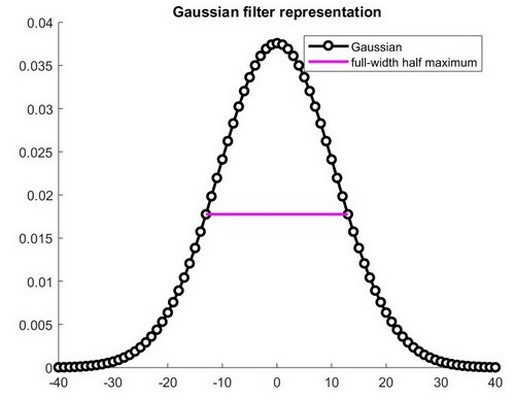
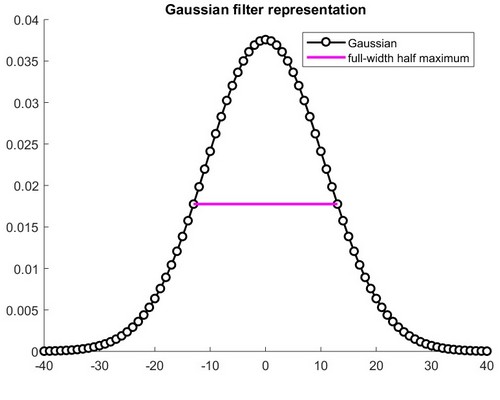
READM + functions: updated graphics and figures

Changed region(s): [[0.0, 0.0, 0.99, 0.99]]

diff --git a/Matlab/denoising/gaussian_filter.m b/Matlab/denoising/gaussian_filter.m
@@ -53,8 +53,6 @@ empFWHM = gtime(pstPeakHalf) - gtime(prePeakHalf);
 
 %   normalize Gaussian to unit energy
 gauswin = gauswin / sum(gauswin);
-title([ 'Gaussian kernel with requeted FWHM ' num2str(fwhm) ' ms (' num2str(empFWHM) ' ms achieved)' ])
-xlabel('Time (ms)'), ylabel('Gain')
 
 % Initialize filtered signal
 if mode == 0
@@ -77,9 +75,9 @@ if plotting == 1
     fig = figure;
     fig.Color = 'w';    % set background color to white
     clf, hold on
-    plot(gtime, gauswin, 'ko-', 'markerfacecolor', 'w', 'linew', 2)
+    plot(gtime, gauswin, 'ko-', 'markerfacecolor', 'w', 'linew', 1.5)
     hold on
-    plot(gtime([prePeakHalf pstPeakHalf]), gauswin([prePeakHalf pstPeakHalf]), 'm', 'linew', 2)
+    plot(gtime([prePeakHalf pstPeakHalf]), gauswin([prePeakHalf pstPeakHalf]), 'm', 'linew', 1.5)
     legend({'Gaussian';'full-width half maximum'})
     title('Gaussian filter representation')
 
@@ -87,7 +85,7 @@ if plotting == 1
     fig2.Color = 'w';
     clf, hold on
     plot(time, signal)
-    plot(time, filtered_signal, 'linew', 2)
+    plot(time, filtered_signal, 'linew', 1.5)
 
     xlabel('Time [sec]'), ylabel('Amplitude')
     legend({'Original signal';'Gaussian-filtered'})

diff --git a/Matlab/denoising/tkeo_zscore.m b/Matlab/denoising/tkeo_zscore.m
@@ -45,15 +45,15 @@ if plotting == 1
     clf
     % plot original and filtered time series (normalized to max-1)
     subplot(211), hold on
-    plot(time, signal./max(signal), 'linew', 2)
-    plot(time, filtered_signal./max(filtered_signal), 'linew', 2)
+    plot(time, signal./max(signal), 'linew', 1.5)
+    plot(time, filtered_signal./max(filtered_signal), 'linew', 1.5)
     xlabel('Time [ms]'), ylabel('Amplitude or energy')
     legend({'signal'; 'filtered signal (TKEO)'})
 
     % plot zscores
     subplot(212), hold on
-    plot(time, signal_zscore, 'linew', 2)
-    plot(time, filtered_signal_zscore, 'linew', 2)
+    plot(time, signal_zscore, 'linew', 1.5)
+    plot(time, filtered_signal_zscore, 'linew', 1.5)
     xlabel('Time [ms]'), ylabel('z-score')
     legend({'signal'; 'filtered signal (TKEO)'})
 end

diff --git a/Matlab/denoising/moving_average.m b/Matlab/denoising/moving_average.m
@@ -56,12 +56,12 @@ if plotting == 1
     fig.Color = 'w';    % set background color to white
     clf, hold on
     plot(time, signal)
-    plot(time, filtered_signal, 'linew',2)
+    plot(time, filtered_signal, 'linew', 1.5)
 
     % draw a patch to indicate the window size
     tidx = dsearchn(time', 1);
     ylim = get(gca, 'ylim');
-    patch(time([tidx-window tidx-window tidx+window tidx+window]), ylim([1 2 2 1]), 'k', 'facealpha', .25, 'linestyle','none')
+    patch(time([tidx-window tidx-window tidx+window tidx+window]), ylim([1 2 2 1]), 'k', 'facealpha', .25, 'linestyle', 'none')
     plot(time([tidx tidx]), ylim,'k--')
 
     xlabel('Time [sec]'), ylabel('Amplitude')

diff --git a/Matlab/denoising/median_filter.m b/Matlab/denoising/median_filter.m
@@ -52,7 +52,8 @@ if plotting == 1
     fig = figure;
     fig.Color = 'w';    % set background color to white
     clf, hold on
-    plot(1:length(signal), signal, 1:length(signal), filtered_signal, 'linew', 2)
+    plot(1:length(signal), signal)
+    plot(1:length(signal), filtered_signal, 'linew', 1.5)
     xlabel('Time [sec]'), ylabel('Amplitude')
     legend({'Original signal';'Median-filtered'})
     title('Median spike denoising filter')

diff --git a/Matlab/denoising/examples/median_spikes_example.m b/Matlab/denoising/examples/median_spikes_example.m
@@ -17,4 +17,4 @@ signal(noisepnts) = 50+rand(size(noisepnts))*100;
 window = 40;
 plotting = 1;
 %   function
-filtered_signal = median_filter(signal, 20, 0);
+filtered_signal = median_filter(signal, 20, 1);
